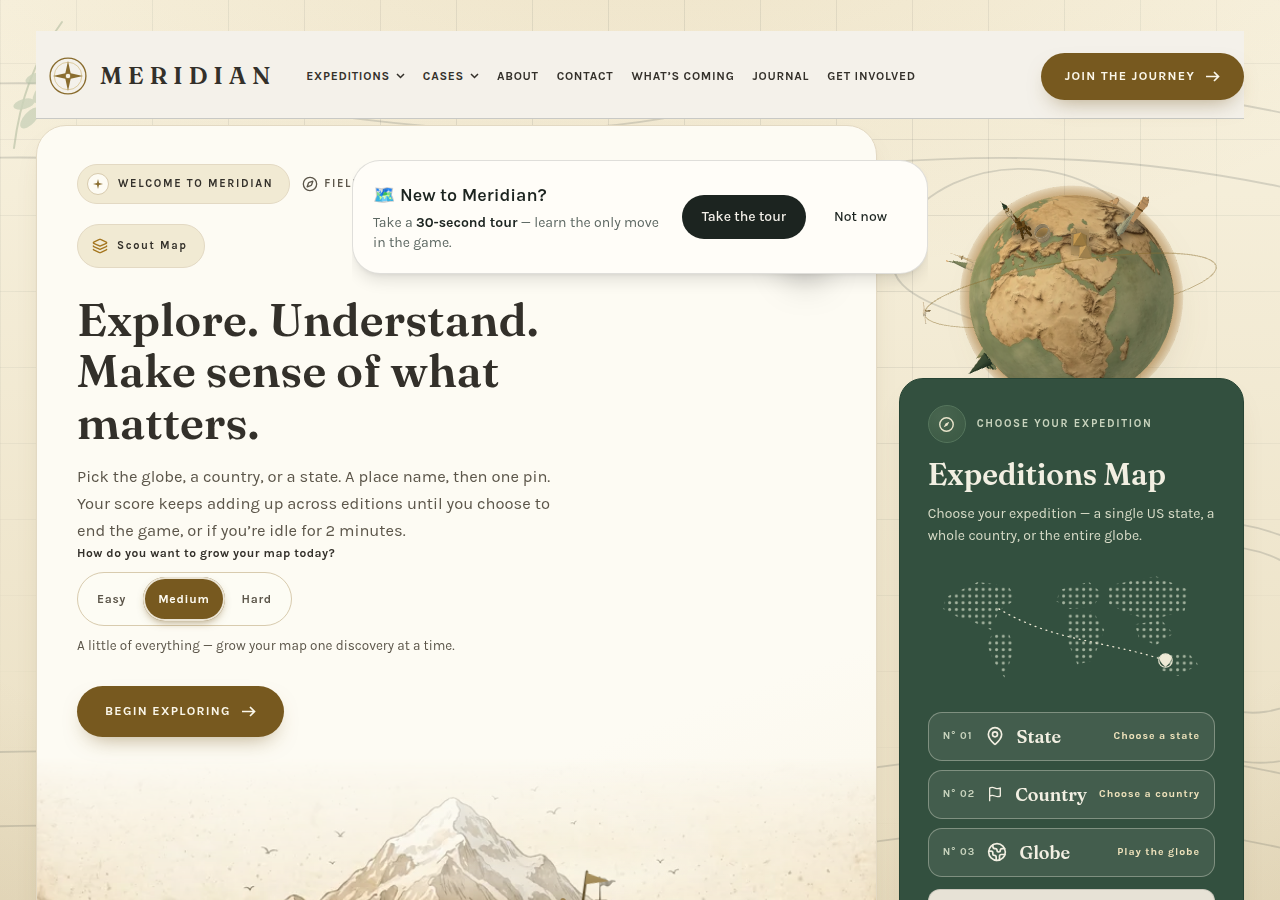
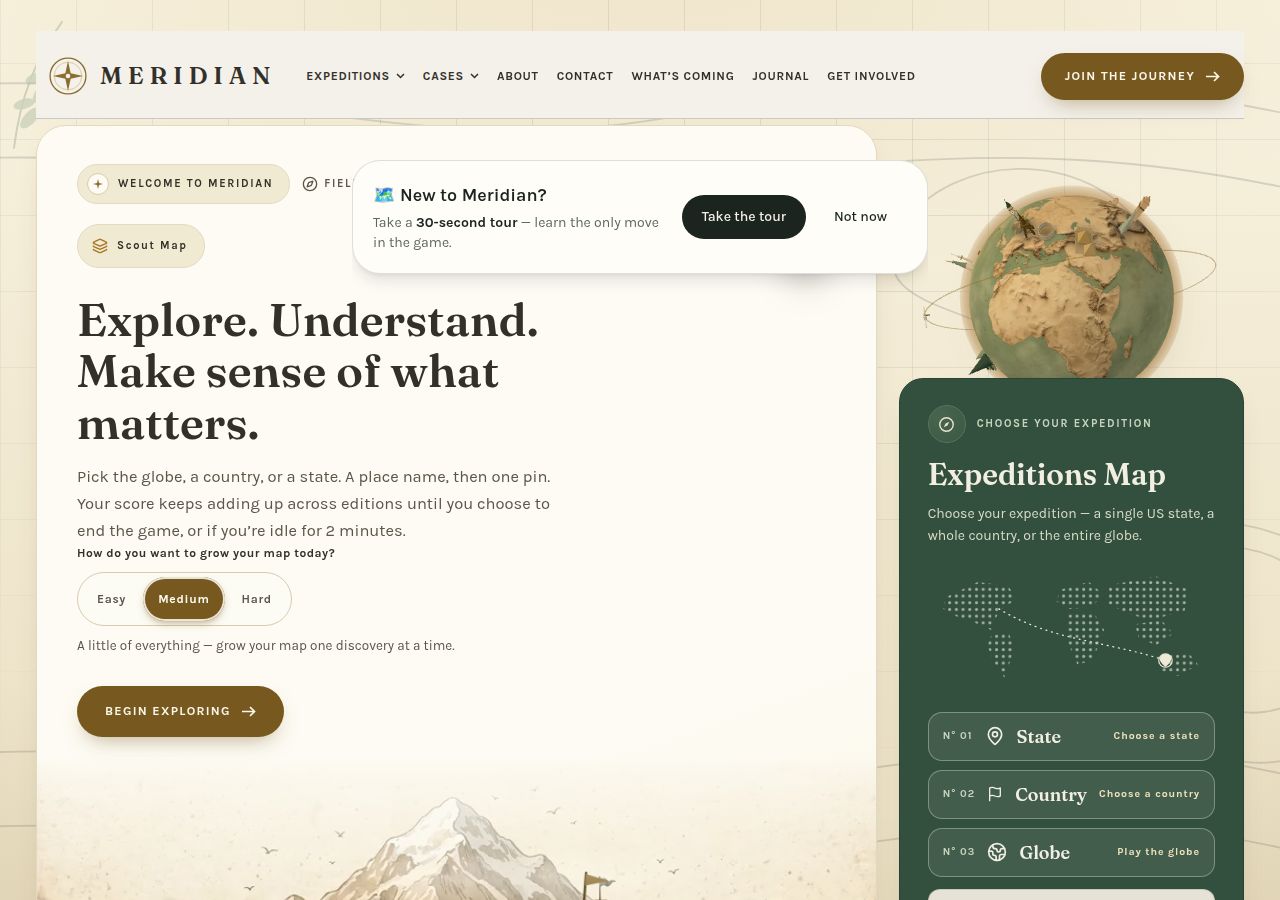
Remove the globe pause button (owner ruling)

Changed region(s): [[0.7188, 0.2178, 0.9062, 0.4044], [0.4375, 0.9956, 0.4688, 1.0]]

diff --git a/docs/mockups/landmark-globe.html b/docs/mockups/landmark-globe.html
@@ -81,14 +81,6 @@ body {
 .hv5-globe-mount canvas { width: 100%; height: 100%; display: block; cursor: grab; touch-action: pan-y; outline: none; border-radius: 50%; }
 .hv5-globe-mount canvas:active { cursor: grabbing; }
 .hv5-globe-mount canvas:focus-visible { box-shadow: 0 0 0 3px var(--hv5-card), 0 0 0 5px var(--hv5-brown); }
-.hv5-globe-pause {
-  position: absolute; right: 8%; bottom: 12%; z-index: 3;
-  width: 36px; height: 36px; border-radius: 50%;
-  border: 1px solid var(--hv5-line-warm); background: var(--hv5-card); color: var(--hv5-brown-deep);
-  display: grid; place-items: center; cursor: pointer; box-shadow: var(--hv5-shadow-card);
-}
-.hv5-globe-pause:focus-visible { outline: 2px solid var(--hv5-brown); outline-offset: 2px; }
-.hv5-globe-pause svg { width: 14px; height: 14px; fill: currentColor; }
 .hv5-mapcard { position: relative; z-index: 1; background: var(--hv5-forest); color: var(--hv5-card); border-radius: 24px; padding: 110px 24px 24px; }
 .hv5-mapcard h4 { font-family: var(--hv5-display); font-size: 22px; margin: 0 0 4px; }
 .hv5-mapcard p { margin: 0; font-size: 13px; color: #d9e2d3; }
@@ -99,7 +91,6 @@ body {
 .phone .hv5-hero { padding: 28px 22px 32px; border-radius: 24px; }
 .phone .hv5-hero h3 { font-size: 30px; }
 .phone .hv5-globe-zone { width: 260px; margin: 6px auto 0; }
-.phone .hv5-globe-pause { right: 2%; bottom: 6%; }
 .notes { flex: 1 1 320px; min-width: 0; display: grid; gap: 10px; align-content: start; }
 .notes h3 { font-family: var(--hv5-display); margin: 0; font-size: 18px; }
 .notes ul { margin: 0; padding-left: 18px; color: var(--hv5-ink-soft); }
@@ -172,7 +163,7 @@ td code { font-family: var(--mono); font-size: 12px; color: var(--hv5-forest-dee
         <ul>
           <li>A sideways swipe spins the globe. An up or down swipe scrolls the page, so the globe never traps you.</li>
           <li>Pinch with two fingers to zoom. Move two fingers together to tilt it.</li>
-          <li>The round button pauses the slow turn. Turning stops on its own when reduced motion is on.</li>
+          <li>The globe turns on its own in a slow loop. Turning stops when reduced motion is on.</li>
           <li>Keyboard: <kbd>←</kbd> <kbd>→</kbd> <kbd>↑</kbd> <kbd>↓</kbd> spin, <kbd>+</kbd> <kbd>−</kbd> zoom, <kbd>0</kbd> resets.</li>
         </ul>
       </div>
@@ -645,7 +636,7 @@ function createGlobe(mount, opts) {
 
   // state
   const clock = new THREE.Clock();
-  let now = 0, lastInteract = -999, paused = false;
+  let now = 0, lastInteract = -999;
   const omega = new THREE.Vector3(); // inertia, axis * rad/s
   const pointers = new Map();
   let pinchStart = 0, pinchDist0 = 0, lastMid = null, lastMoveT = 0;
@@ -740,23 +731,6 @@ function createGlobe(mount, opts) {
     touch();
   });
 
-  // pause button (WCAG 2.2.2: moving content longer than 5 s needs a pause)
-  const btn = document.createElement("button");
-  btn.type = "button";
-  btn.className = "hv5-globe-pause";
-  const setBtn = () => {
-    btn.setAttribute("aria-pressed", String(paused));
-    btn.setAttribute("aria-label", paused ? "Play globe spin" : "Pause globe spin");
-    btn.innerHTML = paused
-      ? '<svg viewBox="0 0 14 14" aria-hidden="true"><path d="M3 1.5v11l9-5.5z"/></svg>'
-      : '<svg viewBox="0 0 14 14" aria-hidden="true"><path d="M3 1.5h3v11H3zM8 1.5h3v11H8z"/></svg>';
-  };
-  btn.addEventListener("click", () => { paused = !paused; setBtn(); kick(); });
-  setBtn();
-  mount.appendChild(btn);
-  const syncBtn = () => { btn.hidden = reduced(); };
-  syncBtn();
-
   // visibility and resize
   let visible = true, raf = 0;
   new IntersectionObserver((es) => { visible = es[0]?.isIntersecting ?? false; if (visible) kick(); }).observe(mount);
@@ -798,7 +772,7 @@ function createGlobe(mount, opts) {
 
     // slow turn returns after idle, with the pole easing back to its tilt
     const idle = now - lastInteract;
-    if (!interacting && !rm && !paused && idle > C.resumeAfter) {
+    if (!interacting && !rm && idle > C.resumeAfter) {
       const ramp = THREE.MathUtils.smoothstep(idle, C.resumeAfter, C.resumeAfter + C.resumeRamp);
       group.quaternion.multiply(tmpQ.setFromAxisAngle(up, C.autoSpin * ramp * dt));
       poleNow.copy(up).applyQuaternion(group.quaternion);
@@ -812,7 +786,7 @@ function createGlobe(mount, opts) {
     camera.position.z = dist;
 
     // plane on the ring
-    if (!rm && !paused) planeA += C.plane.speed * dt;
+    if (!rm) planeA += C.plane.speed * dt;
     const pr = R * C.ring.radius;
     plane.position.set(Math.cos(planeA) * pr, Math.sin(planeA) * pr, 0);
     plane.rotation.set(0, 0, planeA + Math.PI / 2);
@@ -821,7 +795,7 @@ function createGlobe(mount, opts) {
   }
   loop();
   return {
-    refresh() { syncBtn(); omega.set(0, 0, 0); kick(); },
+    refresh() { omega.set(0, 0, 0); kick(); },
     stats() { return { tris: lmTris, maxName: lmMax.name, maxTris: lmMax.tris, calls: renderer.info.render.calls, sceneTris: renderer.info.render.triangles }; },
   };
 }
@@ -863,7 +837,6 @@ const rows = [
   ["Upright drift", `while turning, the pole eases back to tilt at rate <code>${C.uprightEase}</code>/s`],
   ["Rest pose", `axial tilt <code>23.44°</code>, pitch toward viewer <code>${C.viewerPitch}</code> rad, facing longitude <code>${C.startLongitude}°</code>`],
   ["Keys", "arrows spin <code>0.18</code> rad, <code>+</code>/<code>=</code> and <code>-</code> zoom, <code>0</code> resets pose and zoom"],
-  ["Pause", "36 px round button on the globe, toggles the slow turn and the plane; <code>aria-pressed</code>; hidden when motion is reduced"],
   ["Reduced motion", "no slow turn, no inertia, no plane, zoom snaps; production keeps its static disc fallback"],
   ["Lights", `ambient <code>${hex(C.lights.ambient[0])}</code> ${C.lights.ambient[1]}; sun <code>${hex(C.lights.sun[0])}</code> ${C.lights.sun[1]}; rim <code>${hex(C.lights.rim[0])}</code> ${C.lights.rim[1]}; brass rim <code>${hex(C.lights.brassRim[0])}</code> ${C.lights.brassRim[1]} from behind`],
   ["Halo", `back-face fresnel sphere x<code>${C.halo.radius}</code>, <code>${hex(C.halo.color)}</code>, power <code>${C.halo.power}</code>, strength <code>${C.halo.strength}</code>`],

diff --git a/docs/branch-status/feat-landmark-globe.md b/docs/branch-status/feat-landmark-globe.md
@@ -21,7 +21,7 @@ Verification ran against a copy of the page staged in /tmp with the two three.js
 | Wheel over the globe zooms | PASS (73.2% changed) |
 | Pinch (CDP two touch points moving apart) zooms | PASS (99.8% changed) |
 | Slow turn resumed after drag + 4.6 s idle | PASS (53.2% differ between shots 500 ms apart) |
-| Pause button stops the turn | PASS (0% differ, limit 0.5%) |
+| Pause button stops the turn | PASS at the time (0% differ, limit 0.5%) — superseded by Addendum 2: the button is removed |
 | Landmark triangles within budget | PASS: 7,010 total (limit 40,000) |
 | Largest single landmark | PASS: Sydney Opera House 1,872 (limit 5,000) |
 | Scene draw calls | PASS: 50 (limit 60) |
@@ -39,6 +39,14 @@ Captures: `docs/motion-verify/landmark-globe-mockup-1280px.png` (1280 x 900, ful
 - Added: importmap for three and three/addons, merged-geometry landmark builders, rise-in animation, live stats readout, data-URI favicon.
 - One line removed from the shared mockup: the `viewport-fit-sides` viewer meta tag, because the repo provenance check rejects AI tool names in added lines. The page keeps its standard viewport meta.
 - Every motion and input value, the landmark list and coordinates, both page sections and the contract section are unchanged. The on-page contract table's light and halo rows now read the real constant values.
+
+## Addendum 2 — pause button removed (owner ruling, Nov 19 2026)
+
+- Owner ruling on the 390 px in-prod capture: "playbutton shouldnt be displayed on any card", "since its autolooping". The pause/play button is removed from the design. This overrides the original brief's pause-button row (3.5), the `.hv5-globe-pause` layout rules (3.6), the paused state in the statechart (section 4), the Stage 2 e2e pause test (section 7) and the pause checklist item (section 9).
+- Mockup: button element, its creation and wiring in `createGlobe`, the `paused` flag's UI effects and the `.hv5-globe-pause` CSS are all removed. The slow turn, inertia, resume after 3 s, upright drift, plane and reduced-motion behaviour are unchanged; the loop still stops under reduced motion, and the production static-disc fallback is untouched. The on-page contract table no longer has a Pause row.
+- Contract: pause entries removed; the removal and the superseded brief items are recorded in section 3.5.
+- Gates re-run (Playwright, Chromium): zero console errors PASS; zero `.hv5-globe-pause` elements on the page PASS; drag PASS; wheel zoom PASS; pinch (CDP) PASS; slow turn resumed after drag + 4.6 s idle PASS. The pause gate is gone with the button.
+- All four captures re-taken with no button: `landmark-globe-mockup-1280px.png`, `landmark-globe-mockup-390px.png`, `landmark-globe-in-prod-1280px.png`, `landmark-globe-in-prod-390px.png`. In-prod fit re-measured on the same staged build (main `cef9af3c`): mount boxes identical before and after the swap, horizontal overflow 0, map-card overlap unchanged (92 px desktop, none on phone), no injection errors. The 390 px in-prod capture was read by eye: no button beside the globe.
 
 ## Next step
 

diff --git a/docs/mockups/landmark-globe-contract.md b/docs/mockups/landmark-globe-contract.md
@@ -88,8 +88,9 @@ Measured on the built mockup (Chromium, renderer readout): landmarks 7,010 trian
 | Pinch rule | two touch pointers: distance ratio sets zoom, midpoint move tilts; browser pinch-zoom never fires on the canvas |
 | Touch scroll rule | canvas keeps touch-action: pan-y; a vertical one-finger swipe scrolls the page |
 | Keys | arrows spin 0.18 rad, + and - zoom, 0 resets pose and zoom |
-| Pause | 36 px round button on the globe, toggles the slow turn and the plane, aria-pressed, hidden when motion is reduced |
 | Reduced motion | no slow turn, no inertia, no plane movement, no rise-in; zoom snaps |
+
+Pause button removed — owner ruling Nov 19 2026: the globe auto-loops; no play/pause button on any card. (Owner change, not a Stage 1 tuning change.) The brief's statechart has no paused state any more, and the Stage 2 e2e pause test and the section 9 pause checklist item from the original brief are superseded by this ruling.
 
 ## 3.6 Layout
 
